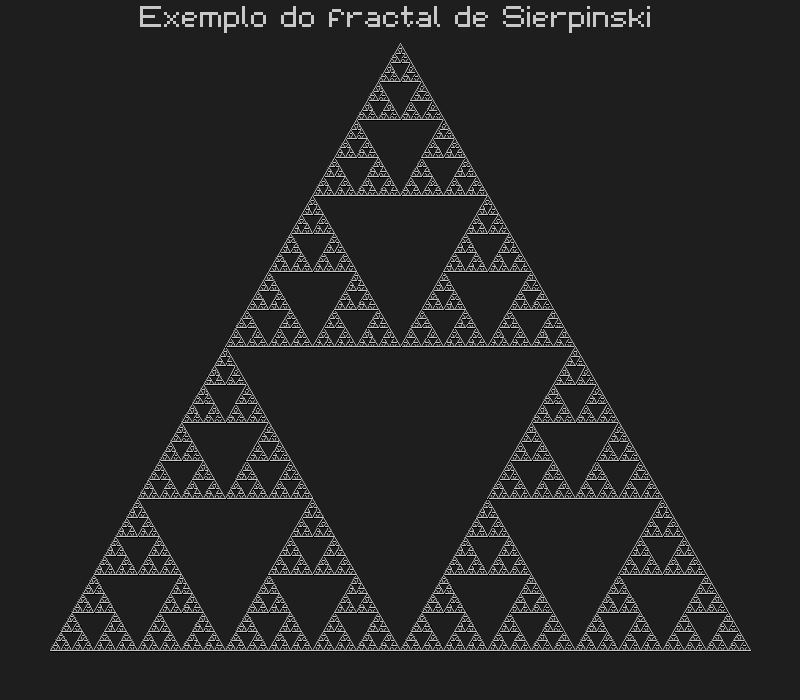
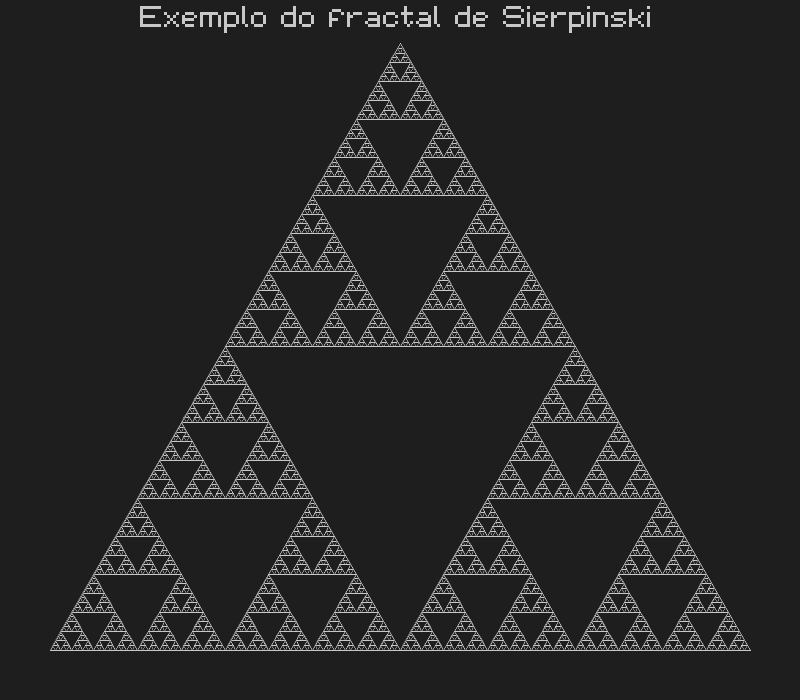
anti aliasing fix

diff --git a/xpaint.h b/xpaint.h
@@ -9443,7 +9443,8 @@ void __plot_bright_pixel( int x , int y , X_Color color, float brightness)
     uchar r = color.r * brightness;
     uchar g = color.g * brightness;
     uchar b = color.b * brightness;
-    x_color_set((X_Color) {r, g, b, 255});
+    uchar a = color.a * brightness;
+    x_color_set((X_Color) {r, g, b,  a});
     x_plot(x, y);
 }
 

diff --git a/lib/draw.c b/lib/draw.c
@@ -478,7 +478,8 @@ void __plot_bright_pixel( int x , int y , X_Color color, float brightness)
     uchar r = color.r * brightness;
     uchar g = color.g * brightness;
     uchar b = color.b * brightness;
-    x_color_set((X_Color) {r, g, b, 255});
+    uchar a = color.a * brightness;
+    x_color_set((X_Color) {r, g, b,  a});
     x_plot(x, y);
 }
 

diff --git a/lib/tree.cpp b/lib/tree.cpp
@@ -21,7 +21,7 @@ void draw_tree(double size) {
 }
 
 int main() {
-    double fator = 9;
+    double fator = 10;
     x_open(500 * fator, 350 * fator, "img_tree");
     x_pen_set_thick(1);
     x_pen_set_angle(90);
